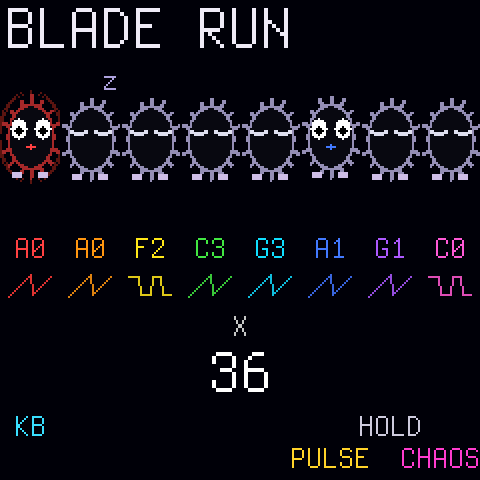
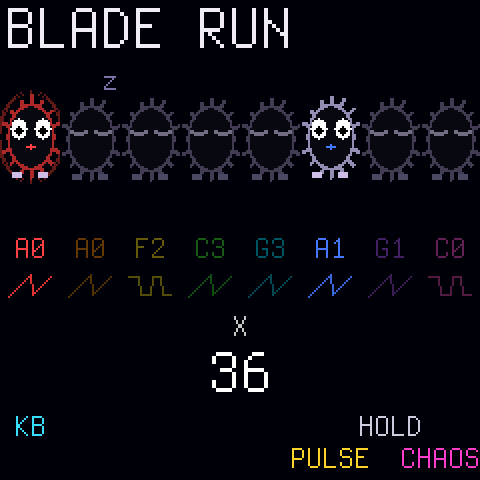
Makkuro37 0.2: sleeping creatures dim, the first-run hint TAP A TOP PAD, the themes as a strip on PRESETS, HELP names each pad's action, SETUP START (PLAY / SILENT)

diff --git a/firmware/src/draw.c b/firmware/src/draw.c
@@ -64,7 +64,8 @@ static void creature(int32_t cx, int32_t cy, int32_t r0x, int32_t r0y, int32_t l
     int32_t rx = r0x * (256 + hit / 5) >> 8, ry = r0y * (256 - hit / 4) >> 8, x, y, glow = lv >> 7, k;
     int32_t by = cy + (r0y - ry);                                     /* (squashed onto its feet) */
     int32_t rxi = rx * rx, ryi = ry * ry;
-    uint16_t fur = glow > 24 ? rgbk(col, 150 + glow / 2) : RGB(150, 140, 180);
+    uint16_t fur = glow > 24 ? rgbk(col, 150 + glow / 2) : sleep ? RGB(66, 60, 86) : RGB(150, 140, 180);
+    uint16_t feet = sleep ? RGB(78, 74, 98) : RGB(200, 190, 230), lid = sleep ? RGB(112, 108, 132) : RGB(220, 220, 235);
     if (glow > 24) {                                                  /* the glow: a solid ring */
         uint16_t gc = rgbk(col, 70 + glow * 3 / 4);
         int32_t gx = rx + 4, gy = ry + 5 + (glow >> 6);
@@ -88,17 +89,17 @@ static void creature(int32_t cx, int32_t cy, int32_t r0x, int32_t r0y, int32_t l
             if (d2 <= 256)
                 cv_pset(cx + x, by + y, d2 > 200 ? fur : RGB(10, 8, 16));   /* body, a crisp rim */
         }
-    cv_rect(cx - rx / 2 - 3, cy + r0y + 1, 5, 3, RGB(200, 190, 230));   /* feet */
-    cv_rect(cx + rx / 2 - 2, cy + r0y + 1, 5, 3, RGB(200, 190, 230));
+    cv_rect(cx - rx / 2 - 3, cy + r0y + 1, 5, 3, feet);                 /* feet */
+    cv_rect(cx + rx / 2 - 2, cy + r0y + 1, 5, 3, feet);
     {   /* eyes: big and white; wide when woken; shut (a line) when asleep */
         int32_t ex = rx / 2, ey = by - ry / 4, er = rx / 3 + hit / 100;
         if (sleep || blink) {                                         /* shut: two small smiles */
             int32_t s2;
             for (s2 = -1; s2 <= 1; s2 += 2) {
                 int32_t x0 = cx + s2 * ex;
-                cv_rect(x0 - er, ey, 2, 2, RGB(220, 220, 235));
-                cv_rect(x0 - er + 2, ey + 1, 2 * er - 3, 2, RGB(220, 220, 235));
-                cv_rect(x0 + er - 1, ey, 2, 2, RGB(220, 220, 235));
+                cv_rect(x0 - er, ey, 2, 2, lid);
+                cv_rect(x0 - er + 2, ey + 1, 2 * er - 3, 2, lid);
+                cv_rect(x0 + er - 1, ey, 2, 2, lid);
             }
         } else {
             int32_t look = hit ? 0 : isin(seed * 40503u, 1);
@@ -148,7 +149,7 @@ static int creature_cell(uint32_t v, int force)
     cv_begin(COLW, CRH, C_BG);
     creature(COLW / 2, 36 + bob, 12, 17, lv, hit, sleep, blink, VCOL[v], sleep ? fuzz_seed >> 4 : fuzz_seed + v);
     if (sleep && ((now >> 10) + v) % 4u == 0u)
-        cv_text(COLW - 9, 3 - (int32_t)((now >> 7) & 3u), &FONT_S, "z", RGB(170, 160, 220));
+        cv_text(COLW - 9, 3 - (int32_t)((now >> 7) & 3u), &FONT_S, "z", RGB(120, 112, 160));
     if (gs != GS_PAD) {                                               /* who plays it besides the pad */
         static const char *const GW[GS_N] = {"", "SEQ", "LFO", "LFO", "CAS"};
         text_c(COLW / 2, CRH - 17, &FONT_S, GW[gs % GS_N], rgbk(VCOL[v], 200));
@@ -243,19 +244,19 @@ static void home_bottom(void)
     cv_begin(240, 124, C_BG);
     for (v = 0; v < NV; v++) {                           /* the notes: selected (KB) boxed, rolling (CHAOS) white */
         char b[8];
-        int32_t x = COLW * (int32_t)v;
+        int32_t x = COLW * (int32_t)v, lit = !vs[v].stage && vs[v].level < 200 ? 100 : 256;   /* (asleep: dim) */
         int roll = cz && ui.cz.n < 3u && ((ui.cz.mask >> v) & 1u);
         if ((ui.nsel >> v) & 1u)
             cv_rect(x + 1, 0, COLW - 2, 17, rgbk(VCOL[v], 256));
         cents_text(b, sizeof b, voice_note_now(v));
         text_c(x + COLW / 2, 1, &FONT_S, b, (ui.nsel >> v) & 1u ? RGB(0, 0, 0) : roll ? RGB(255, 255, 255)
-                                                                   : rgbk(VCOL[v], 256));
+                                                                   : rgbk(VCOL[v], lit));
         if (!cz) {                                       /* its wave, small */
             int32_t i, ly = 0;
             for (i = 0; i < 22; i++) {
                 int32_t y = 26 - (voice_wave(v, (uint32_t)i * 0x1745D174u, i * 2) * 6 >> 15);   /* (2 periods) */
                 if (i)
-                    cv_line(x + 3 + i, ly, x + 4 + i, y, rgbk(VCOL[v], 220));
+                    cv_line(x + 3 + i, ly, x + 4 + i, y, rgbk(VCOL[v], lit * 220 >> 8));
                 ly = y;
             }
         }
@@ -283,6 +284,10 @@ static void home_bottom(void)
                ui.nsel || bl ? RGB(60, 220, 255) : RGB(20, 70, 90));
     else if ((int32_t)(ui.msg_until - fm1_ms) > 0)
         text_c(120, 46, &FONT_L, ui.msg, RGB(255, 255, 255));
+    else if (!settings.hinted) {                         /* the first run: until a top pad is tapped */
+        text_c(120, 40, &FONT_L, "TAP A TOP PAD", RGB(60, 220, 255));
+        text_c(120, 70, &FONT_S, "WAKE / SLEEP", RGB(200, 200, 220));
+    }
     for (v = 0; v < 8u; v++) {                           /* the bottom pads' words, staggered on two rows */
         int32_t w = text_w(&FONT_S, BOT[v]), x = clamp(COLW * (int32_t)v + COLW / 2, w / 2, 240 - w / 2);
         uint16_t c = v == 0u ? RGB(60, 220, 255) : v == 5u ? RGB(255, 210, 40) : v == 6u ? RGB(200, 200, 220)
@@ -441,13 +446,21 @@ static void presets_screen(void)
         int32_t x = 4 + 29 * (int32_t)(k & 7u), y = k < 8u ? 54 : 81;
         cv_rect(x, y, 25, 25, m == ui.preset ? RGB(255, 255, 255) : rgbk(VCOL[k & 7u], has ? 160 : 30));
     }
-    text_c(120, 108, &FONT_S, th < NTHEME ? "< > THEME   PATCH: HOME" : "HOLD A PAD: SAVE", RGB(150, 140, 190));
+    for (k = 0; k <= NTHEME; k++) {                      /* the themes: "DRO ABR NAT SCI ORG PUL MIN" */
+        char a[4] = {0, 0, 0, 0};
+        int32_t x = 1 + 34 * (int32_t)k;
+        str_cpy(a, k < NTHEME ? THEME_NAME[k] : "MINE", sizeof a);
+        if (k == th)
+            cv_rect(x, 107, 32, 17, RGB(255, 255, 255));
+        text_c(x + 16, 108, &FONT_S, a, k == th ? RGB(0, 0, 0) : RGB(150, 140, 190));
+    }
     cv_blit(0, 32);
     if (ui.dlg)
         return;
     cv_begin(240, 84, C_BG);                             /* the knobs: a filter each (a turned one: its value) */
     if (!big_draw(0, 84)) {
-        text_c(120, 2, &FONT_S, "K1-K8: FILTERS", RGB(150, 140, 190));
+        text_c(120, 2, &FONT_S, th < NTHEME ? "< > THEME   K1-K8: FILTERS" : "HOLD A PAD: SAVE   < > THEME",
+               th < NTHEME ? RGB(150, 140, 190) : RGB(255, 255, 255));
         for (k = 0; k < 8u; k++) {                       /* a bar each, the type in use lit */
             const pdesc_t *d = &GDESC[LENS[k].id];
             int32_t x = COLW * (int32_t)k, h = (pt.g[LENS[k].id] - d->min) * 16 / (d->max - d->min);
@@ -525,7 +538,7 @@ static const char *help_line(uint32_t p, uint32_t i, char *b, uint32_t n)
 {
     static const char *const T[HELP_N] = {"PADS", "KNOBS", "MENUS", "MENUS", "PLAY", "FADERS"};
     static const char *const L[HELP_N][6] = {
-        {"", "", "", "KB KEYBOARD", "P PULSE H HOLD", "C CHAOS"},
+        {"", "", "", "", "", ""},
         {"HOME:", "K1-K8 PITCH", "MENU:", "KNOB=COLUMN", "2 CHOICES:", "THE PADS"},
         {0, 0, 0, 0, 0, 0},
         {0, 0, "KNOBB  PRESETS", "PATCH  HOME", "PATCH+ SETUP", "< >    PAGE"},
@@ -563,24 +576,36 @@ static void draw_help(void)
     p = ui.help_panel % HELP_N;
     cv_begin(240, 120, RGB(0, 0, 0));
     text_c(120, 0, &FONT_L, help_line(p, 0xFFu, b, sizeof b), RGB(255, 255, 255));
-    if (p == 0u) {                                       /* the pads in their colours */
-        static const char BOT[8] = {'K', ' ', ' ', ' ', ' ', 'P', 'H', 'C'};
-        for (k = 0; k < 16u; k++) {
-            int32_t x = 1 + 30 * (int32_t)(k & 7u), y = k < 8u ? 34 : 76;
-            char d[2] = {k < 8u ? (char)('1' + k) : BOT[k - 8u], 0};
-            uint16_t c = k < 8u ? rgbk(VCOL[k], 256) : k == 8u ? RGB(60, 220, 255) : k == 13u ? RGB(255, 210, 40)
-                         : k == 14u ? RGB(200, 200, 220)
-                         : k == 15u ? RGB(255, 60, 200) : RGB(30, 28, 40);
-            cv_rect(x, y, 28, 38, c);
-            text_c(x + 14, y + 3, &FONT_L, d, RGB(0, 0, 0));
+    if (p == 0u) {                                       /* the top pads in their colours, what they do */
+        for (k = 0; k < 8u; k++) {
+            int32_t x = 1 + 30 * (int32_t)k;
+            char d[2] = {(char)('1' + k), 0};
+            cv_rect(x, 34, 28, 36, rgbk(VCOL[k], 256));
+            text_c(x + 14, 36, &FONT_L, d, RGB(0, 0, 0));
         }
+        text_c(120, 78, &FONT_S, "TAP: WAKE / SLEEP", RGB(220, 220, 240));
+        text_c(120, 98, &FONT_S, "HOLD: SINGS WHILE HELD", RGB(220, 220, 240));
     } else
         for (k = 0; k < 3u; k++)
             cv_text(4, 30 + 29 * (int32_t)k, &FONT_L, help_line(p, k, b, sizeof b), RGB(220, 220, 240));
     cv_blit(0, 0);
     cv_begin(240, 120, RGB(0, 0, 0));
-    for (k = 3; k < 6u; k++)
-        cv_text(4, 2 + 29 * (int32_t)(k - 3u), &FONT_L, help_line(p, k, b, sizeof b), RGB(220, 220, 240));
+    if (p == 0u) {                                       /* the bottom pads, each one's word under its column */
+        static const char BOT[8] = {'K', ' ', ' ', ' ', ' ', 'P', 'H', 'C'};
+        static const char *const W[8] = {"KEYBOARD", "", "", "", "", "PULSE", "HOLD ALL", "CHAOS"};
+        for (k = 0; k < 8u; k++) {
+            int32_t x = 1 + 30 * (int32_t)k, w = text_w(&FONT_S, W[k]);
+            char d[2] = {BOT[k], 0};
+            uint16_t c = k == 0u ? RGB(60, 220, 255) : k == 5u ? RGB(255, 210, 40) : k == 6u ? RGB(200, 200, 220)
+                         : k == 7u ? RGB(255, 60, 200) : RGB(30, 28, 40);
+            cv_rect(x, 2, 28, 36, c);
+            text_c(x + 14, 4, &FONT_L, d, RGB(0, 0, 0));
+            text_c(clamp(x + 14, w / 2, 240 - w / 2), (k & 1u) ? 60 : 42, &FONT_S, W[k], c);
+        }
+        text_c(120, 86, &FONT_S, "C + A TOP PAD: THAT VOICE", RGB(150, 140, 190));
+    } else
+        for (k = 3; k < 6u; k++)
+            cv_text(4, 2 + 29 * (int32_t)(k - 3u), &FONT_L, help_line(p, k, b, sizeof b), RGB(220, 220, 240));
     for (k = 0; k < HELP_N; k++)
         cv_rect(84 + 12 * (int32_t)k, 112, 8, 6, k == p ? RGB(255, 255, 255) : RGB(70, 66, 90));
     cv_blit(0, 120);

diff --git a/firmware/src/ui.c b/firmware/src/ui.c
@@ -21,7 +21,7 @@ enum { B_KNOBBANK, B_FADERBANK, B_LEFT, B_RIGHT, B_OCTDN, B_OCTUP, B_ARP, B_REPE
 /* ------------------------------------------------------------- the table --- */
 #define NO 0xFFu
 enum { PG_ROW, PG_GLOB, PG_VOICE };                    /* a row of one voice parameter / 8 globals / one voice */
-enum { X_LIGHT = 0xE0, X_CONSOLE, X_OUTPUT, X_LOOP, X_STEPREC };   /* (PG_GLOB: settings and pad actions) */
+enum { X_LIGHT = 0xE0, X_CONSOLE, X_OUTPUT, X_LOOP, X_STEPREC, X_START };   /* (PG_GLOB: settings and pad actions) */
 typedef struct {
     const char *name;
     uint8_t kind;
@@ -76,8 +76,8 @@ static const page_t PAGES[] = {
     ROW3("PAN", VP_PAN, "EACH VOICE LEFT OR RIGHT"),
     ROW3("TONE", VP_TONE, "EACH VOICE DARK OR BRIGHT"),
     /* SETUP (PATCH held): the device, not the sound */
-    {"SETUP", PG_GLOB, {X_LIGHT, X_CONSOLE, X_OUTPUT, NO, NO, NO, NO, NO}, NO, NO,
-     "PAD LIGHT, USB CONSOLE,\nOUTPUT: LINE OR SPEAKER"},
+    {"SETUP", PG_GLOB, {X_LIGHT, X_CONSOLE, X_OUTPUT, X_START, NO, NO, NO, NO}, NO, NO,
+     "PAD LIGHT, USB CONSOLE, OUTPUT\nSTART: PRESETS PLAY OR SILENT"},
     {"JOYSTICK", PG_GLOB, {G_JXOFS, G_JYOFS, NO, NO, NO, NO, NO, NO}, NO, NO,
      "THE WHEELS' CENTRE: TRIM IF\nPITCH OR MOD DRIFTS"},
 };
@@ -148,6 +148,7 @@ static struct {
     struct { uint8_t mask, n; uint32_t t, until; int32_t hist[NV][3]; } cz;   /* CHAOS: 3 rolls, 170 ms apart */
     uint8_t save_pad;                      /* MINE: the pad held (+1), since save_t */
     uint32_t save_t;
+    uint32_t hint_save_t;                  /* the HOME hint seen: the settings stored 1.5 s after (ms | 1), 0 = none */
     uint8_t altmask;                       /* columns whose knob edits their second parameter (DETUNE: RATE) */
     uint8_t free, hold;                    /* FREE-PLAY: the keys wake the drones (SEQ PLAY); HOLD (SEQ REC) */
     int8_t fkey[NV];                       /* FREE-PLAY: the key each voice plays (-128: none) */
@@ -245,9 +246,10 @@ static const pdesc_t *it_desc(const item_t *it)
 {
     static const char *const N_OUT[2] = {"LINE", "SPEAKER"};
     static const char *const N_LOOP[2] = {"REC", "STOP"};
-    static const pdesc_t X[5] = {{"LIGHT", 1, 8, 4, F_NUM, 0}, {"CONSOLE", 0, 1, 1, F_ONOFF, 0},
+    static const char *const N_START[2] = {"PLAY", "SILENT"};
+    static const pdesc_t X[6] = {{"LIGHT", 1, 8, 4, F_NUM, 0}, {"CONSOLE", 0, 1, 1, F_ONOFF, 0},
                                  {"OUTPUT", 0, 1, 0, F_ENUM, N_OUT}, {"LOOP", 0, 1, 0, F_ENUM, N_LOOP},
-                                 {"STEP REC", 0, 1, 0, F_ENUM, N_LOOP}};
+                                 {"STEP REC", 0, 1, 0, F_ENUM, N_LOOP}, {"START", 0, 1, 0, F_ENUM, N_START}};
     switch (it->kind) {
     case IK_V: return &VDESC[VTYPE[it->voice]][it->id];
     case IK_G: return &GDESC[it->id];
@@ -266,6 +268,7 @@ static int32_t it_get(const item_t *it)
         case X_LIGHT: return settings.bright;
         case X_CONSOLE: return settings.console;
         case X_OUTPUT: return settings.speaker;
+        case X_START: return settings.start;
         case X_LOOP: return ui.mo.state == MO_REC || ui.mo.state == MO_LOOP ? 0 : 1;
         default: return kb.rec ? 0 : 1;
         }
@@ -378,6 +381,8 @@ static void it_set(const item_t *it, int32_t v)          /* a new value (clamped
         settings.console = (uint8_t)v;
     else if (it->id == X_OUTPUT)
         settings.speaker = (uint8_t)v;
+    else if (it->id == X_START)
+        settings.start = (uint8_t)v;
     ui.dirty = 1;
 }
 
@@ -451,7 +456,8 @@ static void autogate(void)                              /* a preset's voices sta
 {
     uint32_t v, bits = (uint32_t)pt.g[G_AUTOGATE];
     for (v = 0; v < NV; v++) {                          /* (a voice with its own gate source: on, it plays it) */
-        uint32_t on = VTYPE[v] != VT_VCO && (((bits >> v) & 1u) || pt.v[v][VP_GSRC] != GS_PAD);
+        uint32_t on = !settings.start && VTYPE[v] != VT_VCO &&   /* (START SILENT: all wait for their pads) */
+                      (((bits >> v) & 1u) || pt.v[v][VP_GSRC] != GS_PAD);
         ui.latched[v] = ui.pad_gate[v] = (uint8_t)on;
         ui.ignore_rel[v] = ui.hush[v] = 0;
     }
@@ -760,6 +766,11 @@ static void home_pad(uint32_t pad, uint32_t vel)
         } else if (vel) {
             gate_vel[pad] = (uint8_t)vel;
             gate_press(pad);
+            if (!settings.hinted) {                     /* the first tap: the HOME hint goes (stored soon) */
+                settings.hinted = 1;
+                ui.hint_save_t = fm1_ms | 1u;
+                ui.dirty = 1;
+            }
         } else
             gate_release(pad);
     } else if (pad == 8u) {                             /* KB: select voices, then the keys tune them */
@@ -1221,6 +1232,10 @@ static void ui_input(void)
     knobs_poll();
     faders_poll();
     picker_tick();
+    if (ui.hint_save_t && fm1_ms - ui.hint_save_t >= 1500u) {   /* (once: after the first top pad tap) */
+        ui.hint_save_t = 0;
+        settings_save();
+    }
     chaos_tick();
     mo_play();
     speaker = settings.speaker;

diff --git a/tests/screen.c b/tests/screen.c
@@ -65,7 +65,7 @@ static void lcd_fill(uint32_t x, uint32_t y, uint32_t w, uint32_t h, uint16_t c)
 /* scenes.c stand-ins: user presets 1 and 3 stored */
 #define NUSER 16u
 static uint16_t user_used = 5;
-static struct { uint8_t bright, console, rsv0, user, speaker; } settings = {4, 1, 0, 0, 0};
+static struct { uint8_t bright, console, start, user, speaker, hinted; } settings = {4, 1, 0, 0, 0, 0};
 static int user_save(uint32_t n) { user_used |= (uint16_t)(1u << n); return 0; }
 static int user_load_to(uint32_t n, patch_t *d) { (void)n; patch_init(d); return 0; }
 static void fm1_wdt_feed(void) {}
@@ -182,6 +182,9 @@ static void docs(const char *dir)                       /* every screen, for the
     preset_load(1);
     ui.menu = MN_HOME;
     run(2500);
+    shot(dir, "home-hint");                            /* the first run: until a top pad is tapped */
+    settings.hinted = 1;
+    run(200);
     shot(dir, "home");
     pitch_turn(2, 3);
     run(100);
@@ -271,6 +274,9 @@ int main(int argc, char **argv)
     preset_load(1);
     ui.menu = MN_HOME;
     run(2500);
+    shot(dir, "s02a_home_hint");
+    settings.hinted = 1;
+    run(200);
     shot(dir, "s02_home");
     pitch_turn(2, 3);
     run(100);
@@ -308,6 +314,33 @@ int main(int argc, char **argv)
         draw_frame();
         snprintf(n, sizeof n, "s2%u_help", t);
         shot(dir, n);
+    }
+    ui.help = 0;
+    {   /* START SILENT: a preset's voices wait for their pads; PLAY: as the preset has it. The first top pad tap
+         * on HOME ends the hint and stores the settings 1.5 s later */
+        uint32_t v, on = 0;
+        int bad = 0;
+        settings.start = 1;
+        preset_load(1);
+        for (v = 0; v < NV; v++)
+            on |= ui.latched[v] | ui.pad_gate[v];
+        bad |= on != 0u;
+        settings.start = 0;
+        preset_load(1);
+        for (on = 0, v = 0; v < NV; v++)
+            on |= ui.latched[v];
+        bad |= on == 0u;
+        settings.hinted = 0;
+        ui.menu = MN_HOME;
+        home_pad(2, 100);
+        home_pad(2, 0);
+        bad |= settings.hinted != 1u || !ui.hint_save_t;
+        run(1600);
+        bad |= ui.hint_save_t != 0u;
+        if (bad) {
+            fprintf(stderr, "FAIL screen: START / the HOME hint\n");
+            return 1;
+        }
     }
     return 0;
 }

diff --git a/firmware/src/scenes.c b/firmware/src/scenes.c
@@ -11,12 +11,13 @@ typedef struct {
     uint32_t magic;
     uint8_t bright;                        /* pad LEDs 1..8 */
     uint8_t console;                       /* USB serial console (CDC) */
-    uint8_t rsv0;
+    uint8_t start;                         /* SETUP START: a preset's voices start (0 PLAY) or wait for their pads (1) */
     uint8_t user;                          /* the user preset loaded last (1..16, 0 = none) */
     uint8_t speaker;                       /* output for the little speaker (analog.c) */
-    uint8_t rsv[7];
+    uint8_t hinted;                        /* the HOME hint "TAP A TOP PAD" seen (a top pad tapped once) */
+    uint8_t rsv[6];
 } settings_t;
-static settings_t settings = {SET_MAGIC, 4, 1, 0, 0, 0, {0}};
+static settings_t settings = {SET_MAGIC, 4, 1, 0, 0, 0, 0, {0}};
 static uint16_t user_used;                 /* bit n: user preset n + 1 is stored */
 
 typedef struct {
@@ -117,6 +118,8 @@ static void persist_boot(void)
             settings.bright = 4;
         if (settings.user > NUSER)
             settings.user = 0;
+        settings.start = settings.start == 1u;
+        settings.hinted = settings.hinted == 1u;
     }
     for (o = 0; o < NUSER / 2u; o++)
         if (!uobj_read(o))

diff --git a/firmware/src/makkuro.c b/firmware/src/makkuro.c
@@ -4,7 +4,7 @@
 /* Makkuro37, a microtonal drone synth for the M-Vave SMK-37 Pro: one compilation unit (the HAL is
  * header-only; board layer from SLOOP / Felucca). Order matters. */
 #include <stdint.h>
-#define MK_VERSION "0.1"
+#define MK_VERSION "0.2"
 #define BRAND_NAME "MAKKURO37"
 #define BRAND_CRASH "MAKKURO37 CRASH"
 #define BRAND_RESCUE "MAKKURO37 USB RESCUE"

diff --git a/docs/GUIDE.md b/docs/GUIDE.md
@@ -23,8 +23,10 @@ The full map: [CONTROLS.md](CONTROLS.md).
 2. Tap any **pad**. You hear that preset straight away. The pad you are hearing is white.
 3. Turn **K1-K4**: each is a filter type (LADDER, POLIVOKS, BAND, DIST). Turning one switches to it and sweeps
    its cutoff. **K5-K8**: resonance, drive, movement and its rate.
-4. Press **<** or **>** to change the theme: DRONES, ABRAXAS, NATURE, SCI-FI, ORGAN, PULSE, MINE.
-5. Press **PATCH**. You see the creatures. The awake ones are singing.
+4. Press **<** or **>** to change the theme: DRONES, ABRAXAS, NATURE, SCI-FI, ORGAN, PULSE, MINE. The strip
+   under the pads shows all seven, the one you are in white.
+5. Press **PATCH**. You see the creatures. The awake ones are bright and singing, the sleeping ones dim. The
+   first time, the screen says TAP A TOP PAD: WAKE / SLEEP until you tap one.
 6. Press **KNOB BANK** to come back to the presets.
 
 ## 2. Tuning the creatures
@@ -35,7 +37,8 @@ The full map: [CONTROLS.md](CONTROLS.md).
 
 1. On the creatures screen, each column is one drone: knob above, creature and note in the middle, pad below.
 2. Tap **top pad 3**. Creature 3 wakes up and sings.
-3. Tap it again. It falls asleep (it fades out with its release). Tap once more right away: silent at once.
+3. Tap it again. It falls asleep (it fades out with its release) and turns dim, its note too. Tap once more
+   right away: silent at once.
 4. **Hold** top pad 3 instead. It sings only while you hold it.
 5. Turn **K1**. Drone 1 moves up or down the scale. The note under creature 1 changes.
 6. Hold **top pad 1** and play a **key**. Drone 1 takes that note, in its own register, and stays on.
@@ -142,8 +145,9 @@ you move it; switching banks changes nothing.
 3. **Hold** a dark pad for one second. Your sound is saved there.
 4. Hold a lit pad: the screen asks first. **Green** pad (bottom right) = replace, **red** = cancel.
 5. Tap a lit pad to load your sound.
-6. Hold **PATCH** for SETUP: pad light, USB console, output LINE or SPEAKER. Master volume, width, tape and
-   analog drift are on the faders, bank OUTPUT.
+6. Hold **PATCH** for SETUP: pad light, USB console, output LINE or SPEAKER, and START: PLAY (a preset's
+   voices start as it has them) or SILENT (every preset loads asleep, you wake the voices with their pads).
+   Master volume, width, tape and analog drift are on the faders, bank OUTPUT.
 
 ---
 

diff --git a/docs/CONTROLS.md b/docs/CONTROLS.md
@@ -35,7 +35,7 @@ Generated from the firmware's menu table (tools/docs_img.sh). On every page knob
 | GLOBE | MIX | VOLUME | VOLUME | VOLUME | VOLUME | VOLUME | VOLUME | VOLUME | VOLUME | VOLUME |
 |  |  | PAN | PAN | PAN | PAN | PAN | PAN | PAN | PAN | PAN |
 |  |  | TONE | TONE | TONE | TONE | TONE | TONE | TONE | TONE | TONE |
-| PATCH+ | SETUP | SETUP | LIGHT | CONSOLE (pads) | OUTPUT (pads) |  |  |  |  |  |
+| PATCH+ | SETUP | SETUP | LIGHT | CONSOLE (pads) | OUTPUT (pads) | START (pads) |  |  |  |  |
 |  |  | JOYSTICK | X OFFS | Y OFFS |  |  |  |  |  |  |
 
 FADER BANK: the banks (< > or top pads 1-5). A fader sets its parameter when it moves.
